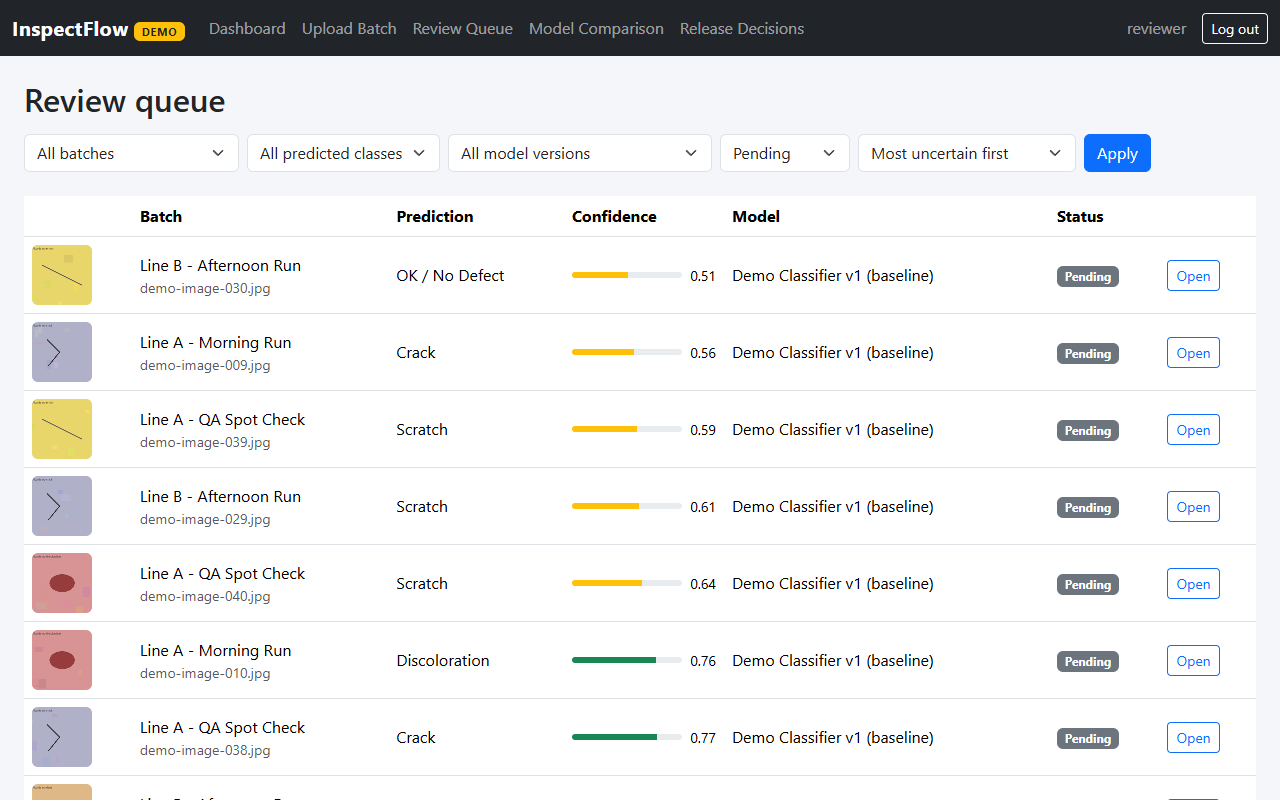
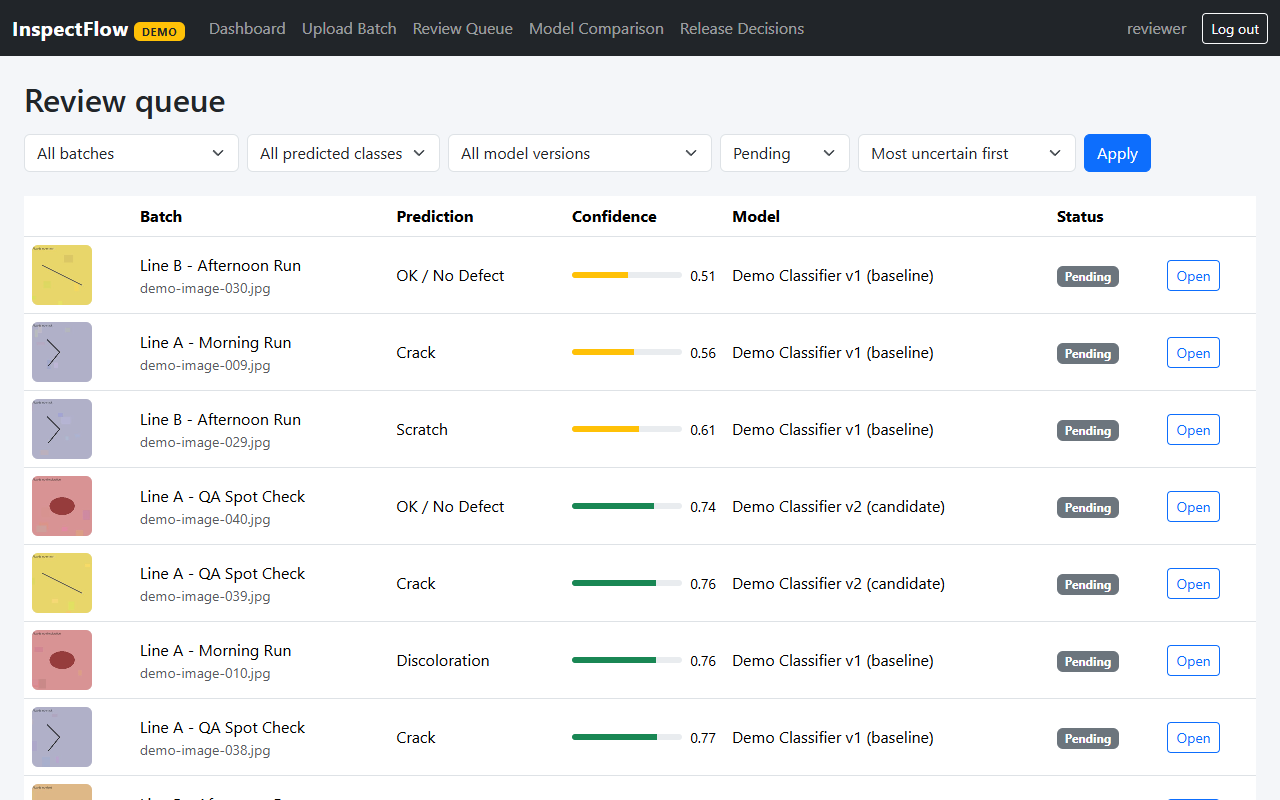
Add portfolio case study, refreshed screenshots and demo guide updates
Adds docs/PORTFOLIO_CASE_STUDY.md with the client-facing summary, limitations,
Upwork description and screenshot order. Recaptures screenshots from a clean
seed, adds the post-correction comparison view, and updates DEMO.md and the
README to match the current flow.

diff --git a/docs/PORTFOLIO_CASE_STUDY.md b/docs/PORTFOLIO_CASE_STUDY.md
@@ -1,0 +1,59 @@
+# InspectFlow: a review-and-release workflow for AI defect detection
+
+*A self-directed demonstration project. It shows how a small manufacturing team could review a defect-detection model's output, correct it, compare two model versions fairly, and record a documented go/no-go decision.*
+
+## The problem and who it is for
+
+Teams that start using AI to spot product defects run into the same questions. Which predictions can we trust? Who checked the doubtful ones? Is the new model version really better than the old one, or was it just tested on easier pictures? Who decided to switch, and why?
+
+InspectFlow is aimed at quality leads and operations managers in small factories, and at the analysts who support them. They need something they can read and audit without being machine-learning specialists.
+
+## What I built
+
+- **Django backend.** Data models for batches, images, model versions, predictions, reviews, evaluation sets, and release decisions. Uploads are validated, images are only served to logged-in users, and every label change is recorded in an audit history.
+- **A responsive interface.** A dashboard, an upload page with honest progress feedback, a review queue that puts the least certain predictions first, and a comparison page. On phones the review queue turns into readable cards.
+- **A model evaluation workflow.** Two model versions are scored on the *same* reviewed images. The page shows overall accuracy, per-class precision and recall, confusion matrices, and the photos where the models disagree. Missing labels or missing predictions are called out instead of being quietly dropped.
+- **Testing.** 22 automated tests plus browser walk-throughs at desktop and phone widths.
+
+## The walkthrough
+
+1. **Upload.** Add a batch of photos. They are checked for type and size, a progress bar shows the transfer, and the stand-in classifier scores each image.
+2. **Review.** The queue lists images with the least certain predictions first and can be filtered by batch, class, model version, and review status.
+3. **Correct.** The reviewer opens an image, sets the correct label, and adds a note. The history keeps who changed it, when, and from what to what.
+4. **Compare.** Pick two versions and one evaluation set. Fixing a label there changes the results straight away: in the seeded demo, one correction moved the accuracies from 0.767 and 0.933 to 0.733 and 0.967.
+5. **Decide.** The release page gathers the metrics, review coverage, known limitations, and example images. A person records approve, reject, or needs more review, with a rationale. The tool supplies evidence; it does not certify anything.
+
+## What this demo shows, and what it does not
+
+**It shows** that I can take a workflow from data model to polished interface, keep the logic that scores models separate from the demo model so a real one could be plugged in later, and build in auditability and honest labelling.
+
+**It does not show** real-world accuracy. Everything is synthetic:
+
+- The images are generated shapes, not product photos.
+- The "classifier" is a deterministic stand-in, not a trained model.
+- All accuracy, precision, recall, and confidence figures come from that stand-in and are labelled as synthetic in the app.
+- There is no real client, deployment, or measured business impact.
+- Login is a single shared demo account, and images are classified during upload rather than in a background queue.
+
+## Technology
+
+Python, Django, SQLite, Pillow, HTML/CSS with Bootstrap, and a little JavaScript for upload feedback. Tested with Django's test framework and Playwright in Edge.
+
+## Suggested Upwork portfolio description
+
+InspectFlow is a self-directed demo of a visual-inspection review workflow that I designed and built with Django. Upload a batch of product photos, see a stand-in classifier's predictions with confidence scores, and review the uncertain ones first. Reviewers correct labels, every change is logged with who, when, and old and new value, and two model versions are compared on the same reviewed images (accuracy, precision, recall, confusion matrices, and the exact photos where the models disagree). The last step is a documented release decision (approve, reject, or needs more review) with written rationale. It is fully responsive and login-protected. All images, labels, and scores are synthetic and are not real production results.
+
+## Screenshots for the portfolio entry
+
+Files are in `docs/screenshots/`. Use them in this order:
+
+| # | File | Caption |
+|---|------|---------|
+| 1 | `05-model-comparison.png` | Two model versions scored on the same reviewed images, with per-class results and confusion matrices. |
+| 2 | `03-review-queue.png` | The review queue puts the least certain predictions first. |
+| 3 | `04-review-detail.png` | A reviewer confirms or corrects the label, and the change is added to an audit history. |
+| 4 | `06-comparison-after-correction.png` | After one label is corrected, the comparison recalculates straight away. |
+| 5 | `07-release-decision.png` | The release page brings together evidence and limitations, and records a human decision with its rationale. |
+| 6 | `08-mobile-review-queue.png` | The review queue as readable cards on a phone. |
+
+The other captures (`01-dashboard.png`, `02-batch-uploaded.png`, `09-mobile-review-detail.png`) are available if a gallery allows more images. None of them show credentials.

diff --git a/DEMO.md b/DEMO.md
@@ -39,8 +39,9 @@ again before each recording take to wipe uploads, corrections and decisions.
 
 ## What is implemented
 
-- Batch upload with type, size and count validation, a progress bar, and
-  synchronous demo inference storing class, confidence, model version and status.
+- Batch upload with type, size and count validation, a progress bar for the
+  transfer (bytes sent) followed by a separate processing state, clear error
+  messages, and synchronous demo inference storing class, confidence, model version and status.
 - Review queue with filters (batch, class, model version, review status), sorting
   with the most uncertain predictions first, table on desktop and cards on phones.
 - Image review: assign or correct the ground-truth label, add a note, and keep an
@@ -61,7 +62,7 @@ login, background job processing, or any validation against real data.
 Use a desktop-width browser. Reset the seed first.
 
 1. **Dashboard (0:00-0:10).** "InspectFlow is a demo of a defect-review workflow.
-   Everything here is synthetic, which the banner and footer say." Point at the
+   Everything here is synthetic, which the DEMO badge, notices and footer say." Point at the
    pending-review count.
 2. **Upload (0:10-0:25).** Upload Batch, name it, pick 3 images, submit. Show the
    progress bar and the batch page with a prediction and confidence per image.
@@ -70,12 +71,12 @@ Use a desktop-width browser. Reset the seed first.
 4. **Correction moves the numbers (0:45-1:10).** Model Comparison: pick v1, v2 and
    the evaluation set, and Compare. Note the accuracies (0.767 and 0.933) and the
    confusion matrices. Open a disagreement row, change its reviewed label to
-   the other model's prediction, save, and compare again: the accuracies shift
-   (for example 0.733 and 0.967). Say: "both models are always scored on the
+   the other model's prediction, and save. You return to the comparison with the
+   accuracies changed (for example 0.733 and 0.967). Say: "both models are always scored on the
    same reviewed images."
 5. **Release decision (1:10-1:30).** Release Decisions, open the v2 candidate.
    Show coverage, limitations and supporting examples, then record "Needs more
    review" with a short rationale. Say: "the tool provides evidence; a person
    makes the call."
 
-Screenshots of each step are in `docs/screenshots/`.
+Screenshots of each step are in `docs/screenshots/`; the suggested portfolio order and captions are in [docs/PORTFOLIO_CASE_STUDY.md](docs/PORTFOLIO_CASE_STUDY.md).

diff --git a/README.md b/README.md
@@ -80,7 +80,7 @@ Then open http://127.0.0.1:8000/ and log in with the seeded demo account:
 python manage.py test inspection
 ```
 
-Covers (18 tests): deterministic demo classification and stored-path handling, batch upload validation and
+Covers (22 tests): deterministic demo classification and stored-path handling, batch upload validation and
 inference, review correction + audit trail, evaluation metrics (accuracy,
 exclusion of unlabeled/missing-prediction images), model comparison
 disagreements, and release decision recording.
@@ -94,10 +94,11 @@ disagreements, and release decision recording.
 - Authentication is a single shared demo reviewer account; a production
   deployment would need per-user accounts, roles, and stronger permissions.
 - The review queue shows one prediction per image (the selected model's when filtering by model).
+- Bootstrap CSS/JS load from a CDN, so the styled interface needs an internet connection.
 - No background task queue — inference runs synchronously on upload, which
   is fine for demo-sized batches but wouldn't scale to large batches or slow
   models.
 
 ## Walkthrough
 
-See [DEMO.md](DEMO.md) for the demo narrative, reset instructions and a 60-90 second recording script.
+See [DEMO.md](DEMO.md) for the demo narrative, reset instructions and a 60-90 second recording script, and [docs/PORTFOLIO_CASE_STUDY.md](docs/PORTFOLIO_CASE_STUDY.md) for the portfolio write-up.
